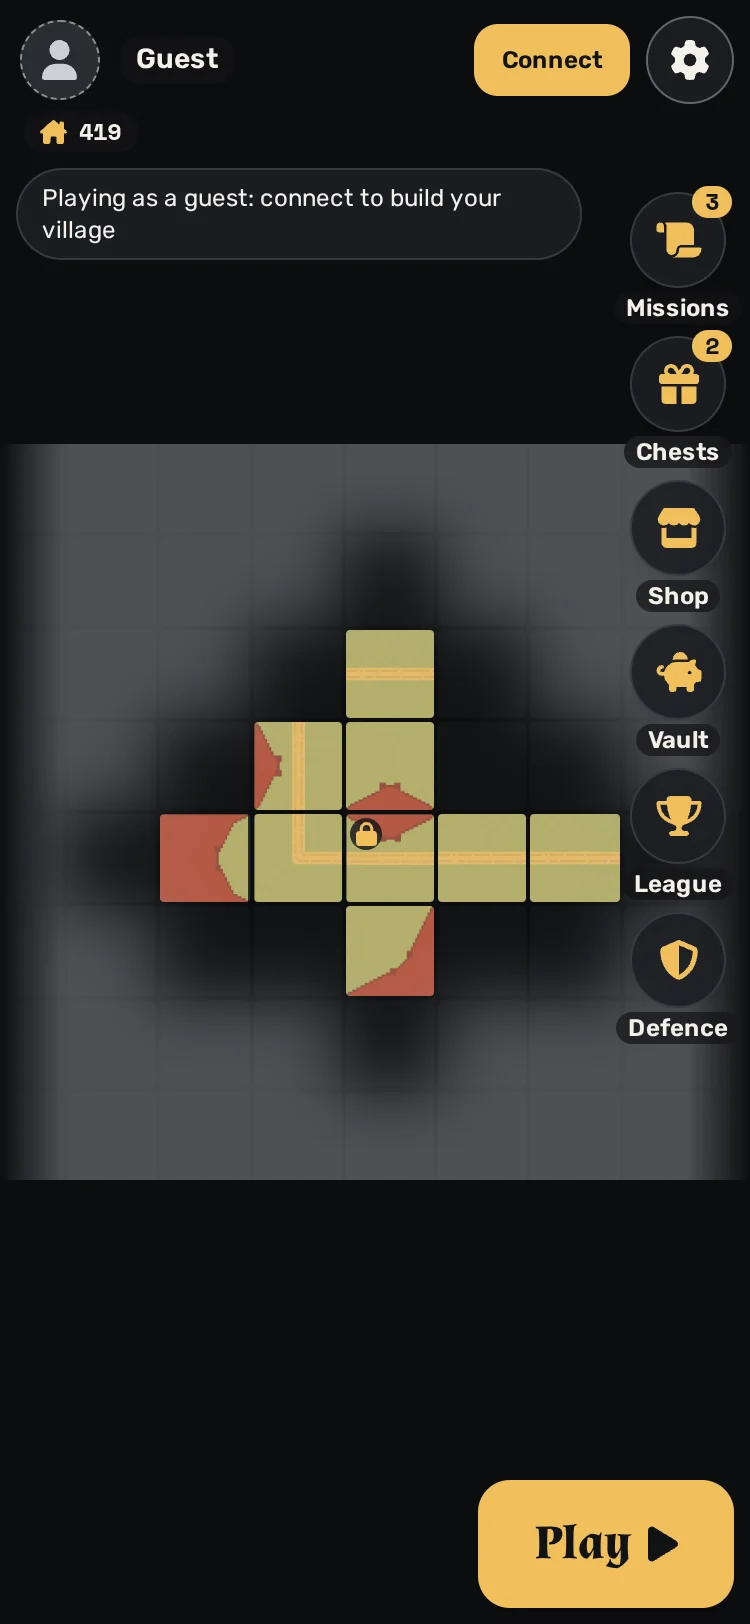
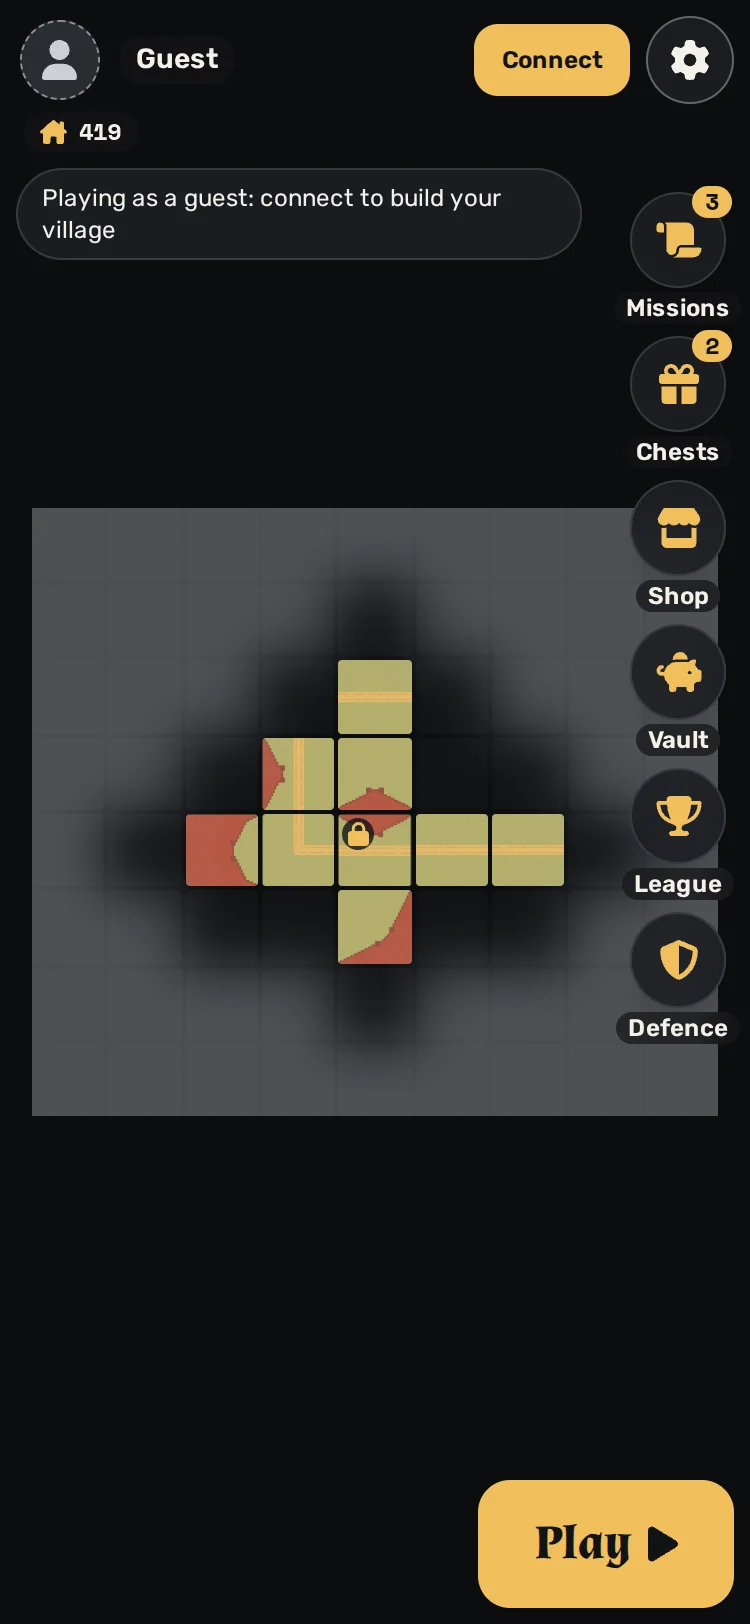
V2-HOME-VILLAGE: the home's layouts pass the wrap sweep at 360 and 320 px (#753)
In view, the home's plan fits the screen (nothing on it is tapped), so it never
scrolls across. In edit mode the frame clips vertically only: the inventory's
carousel clips its own track, and the scene's box clips the canvas. The sweep
allows only what the editor's design wants, as on the village page: the plan's
touch-floor scroller and the inventory carousel, on the edit stories alone.

Changed region(s): [[0.0307, 0.2463, 0.9813, 0.7389]]

diff --git a/packages/app/src/components/containers/layout-board.tsx b/packages/app/src/components/containers/layout-board.tsx
@@ -27,6 +27,11 @@ export interface LayoutBoardProps {
   /** A tile that cannot be lifted (its removal would split the village): it shakes. */
   shaking?: number | null;
   tileArt?: TileArt;
+  /**
+   * Fit the plan to its box, below the 44 px touch floor if need be, so it never scrolls across: a view where no cell is tapped
+   * (the home, #753). Off: every cell keeps the floor, and a plan wider than the box scrolls.
+   */
+  fit?: boolean;
   /** A placed tile chosen (never the starter): lift it into the hand. */
   onTile?: (tile: BoardTile) => void;
   /** A plate chosen: the tile in hand goes there. */
@@ -52,7 +57,7 @@ const SHAKE = { x: [0, -5, 5, -4, 4, 0] };
  * (plates, `data-cell`), a tap sets it on one (ringed, the bubble's hold places it), and a placed tile is a button that lifts
  * it into the hand. The starter wears its lock and is never a button.
  */
-export function LayoutBoard({ tiles, editing = false, plates = [], pending = null, shaking = null, tileArt, onTile, onPlate, className }: LayoutBoardProps) {
+export function LayoutBoard({ tiles, editing = false, plates = [], pending = null, shaking = null, fit = false, tileArt, onTile, onPlate, className }: LayoutBoardProps) {
   const grid = useRef<HTMLDivElement>(null);
   // A board wider than the screen opens on its middle, where the village is.
   const extent = tiles.length;
@@ -168,7 +173,7 @@ export function LayoutBoard({ tiles, editing = false, plates = [], pending = nul
           gridTemplateRows: `repeat(${rows}, 1fr)`,
           aspectRatio: `${cols} / ${rows}`,
           // Every cell keeps the 44 px touch floor: past what the screen holds, the board scrolls.
-          width: `max(${cols * MIN_CELL}px, min(100%, 70dvh))`,
+          width: fit ? "min(100%, 70dvh)" : `max(${cols * MIN_CELL}px, min(100%, 70dvh))`,
         }}
       >
         {cells}

diff --git a/packages/app/scripts/wrap-sweep.ts b/packages/app/scripts/wrap-sweep.ts
@@ -71,6 +71,11 @@ const ALLOWED: (Allowed & { why: string })[] = [
   { story: /^(scenes-village-v2-layout|containers-layoutboard)--/, kind: "scroll", element: "div[scroll-region]", why: "v2 village scroller" },
   { story: /^(scenes-village-v2-layout|containers-inventorytray)--/, kind: "clip", element: "div[carousel-content]", why: "carousel window" },
   { story: /^(scenes-village-v2-layout|containers-inventorytray)--/, kind: "overflow", element: 'div "×', why: "carousel track" },
+  // The home's edit mode (#753) is the v2 village's editor in the home's scene: its plan keeps the touch floor and scrolls both
+  // ways, its inventory is the same carousel. The home's view fits its plan to the screen: no scroller there.
+  { story: /^scenes-home--(editing|holding|placing|changed|leaving|refused|scene-editing)/, kind: "scroll", element: "div[scroll-region]", why: "v2 village scroller" },
+  { story: /^scenes-home--(editing|holding|placing|changed|leaving|refused|scene-editing)/, kind: "clip", element: "div[carousel-content]", why: "carousel window" },
+  { story: /^scenes-home--(editing|holding|placing|changed|leaving|refused|scene-editing)/, kind: "overflow", element: 'div "×', why: "carousel track" },
   // The same village board in the PvP result's reward dialog (#647), opened by Choose.
   { story: "scenes-pvp-result--reward-sheet-open", kind: "scroll", element: "div[scroll-region]", why: "village plan scroller" },
   // The avatar creator's part tabs (#626): ten parts do not fit a phone, so the tab list scrolls sideways in a ScrollRegion with

diff --git a/packages/app/src/components/containers/village-stage.tsx b/packages/app/src/components/containers/village-stage.tsx
@@ -68,14 +68,15 @@ export default function VillageStage({ village, editable, ...props }: VillageSta
   return (
     <>
       {/* The scene's box: the whole screen in view, what the editor's panel leaves in edit mode. Its place in the tree never changes, so the canvas stays up across the modes. */}
-      <div className="relative min-h-0 flex-1">
+      <div className="relative min-h-0 flex-1 overflow-hidden">
         {/* The village not read yet: a placeholder sky under the overlays (they paint first). */}
         {!village ? (
           <div aria-hidden className="absolute inset-0 bg-gradient-to-b from-background/40 to-board" />
         ) : props.renderCanvas ? (
           props.renderCanvas(view)
         ) : (
-          <LayoutBoard {...view} tileArt={props.tileArt} className="absolute inset-0 bg-board" />
+          // In view nothing on the plan is tapped: it fits the screen. The editor keeps the touch floor, and scrolls past it.
+          <LayoutBoard {...view} fit={!editing} tileArt={props.tileArt} className="absolute inset-0 bg-board" />
         )}
         {editing && village && <EditBar editor={editor} village={village} />}
         {!editing && props.saved && (

diff --git a/packages/app/src/components/scenes/home-village-scene.tsx b/packages/app/src/components/scenes/home-village-scene.tsx
@@ -129,7 +129,9 @@ export function HomeVillageScene({ renderStage, ...props }: HomeVillageSceneProp
     props.onEditingChange?.(true);
   };
   return (
-    <div className="relative flex h-dvh min-h-[32rem] flex-col overflow-hidden bg-board text-foreground desktop:flex-row">
+    // A game scene's frame, clipped as the boards' (the dial's ring included). In edit mode it clips vertically only: across, the
+    // inventory's carousel clips its own track (its window), and the scene's box clips the canvas.
+    <div className={cn("relative flex h-dvh min-h-[32rem] flex-col bg-board text-foreground desktop:flex-row", editing ? "overflow-x-visible overflow-y-clip" : "overflow-hidden")}>
       <h1 className="sr-only">Home</h1>
       {/* The village's stage, its own chunk (the editor, the board, the engine): a placeholder sky until it is in. */}
       <Suspense fallback={SKY}>{renderStage ? renderStage(stage) : <LazyVillageStage {...stage} />}</Suspense>
